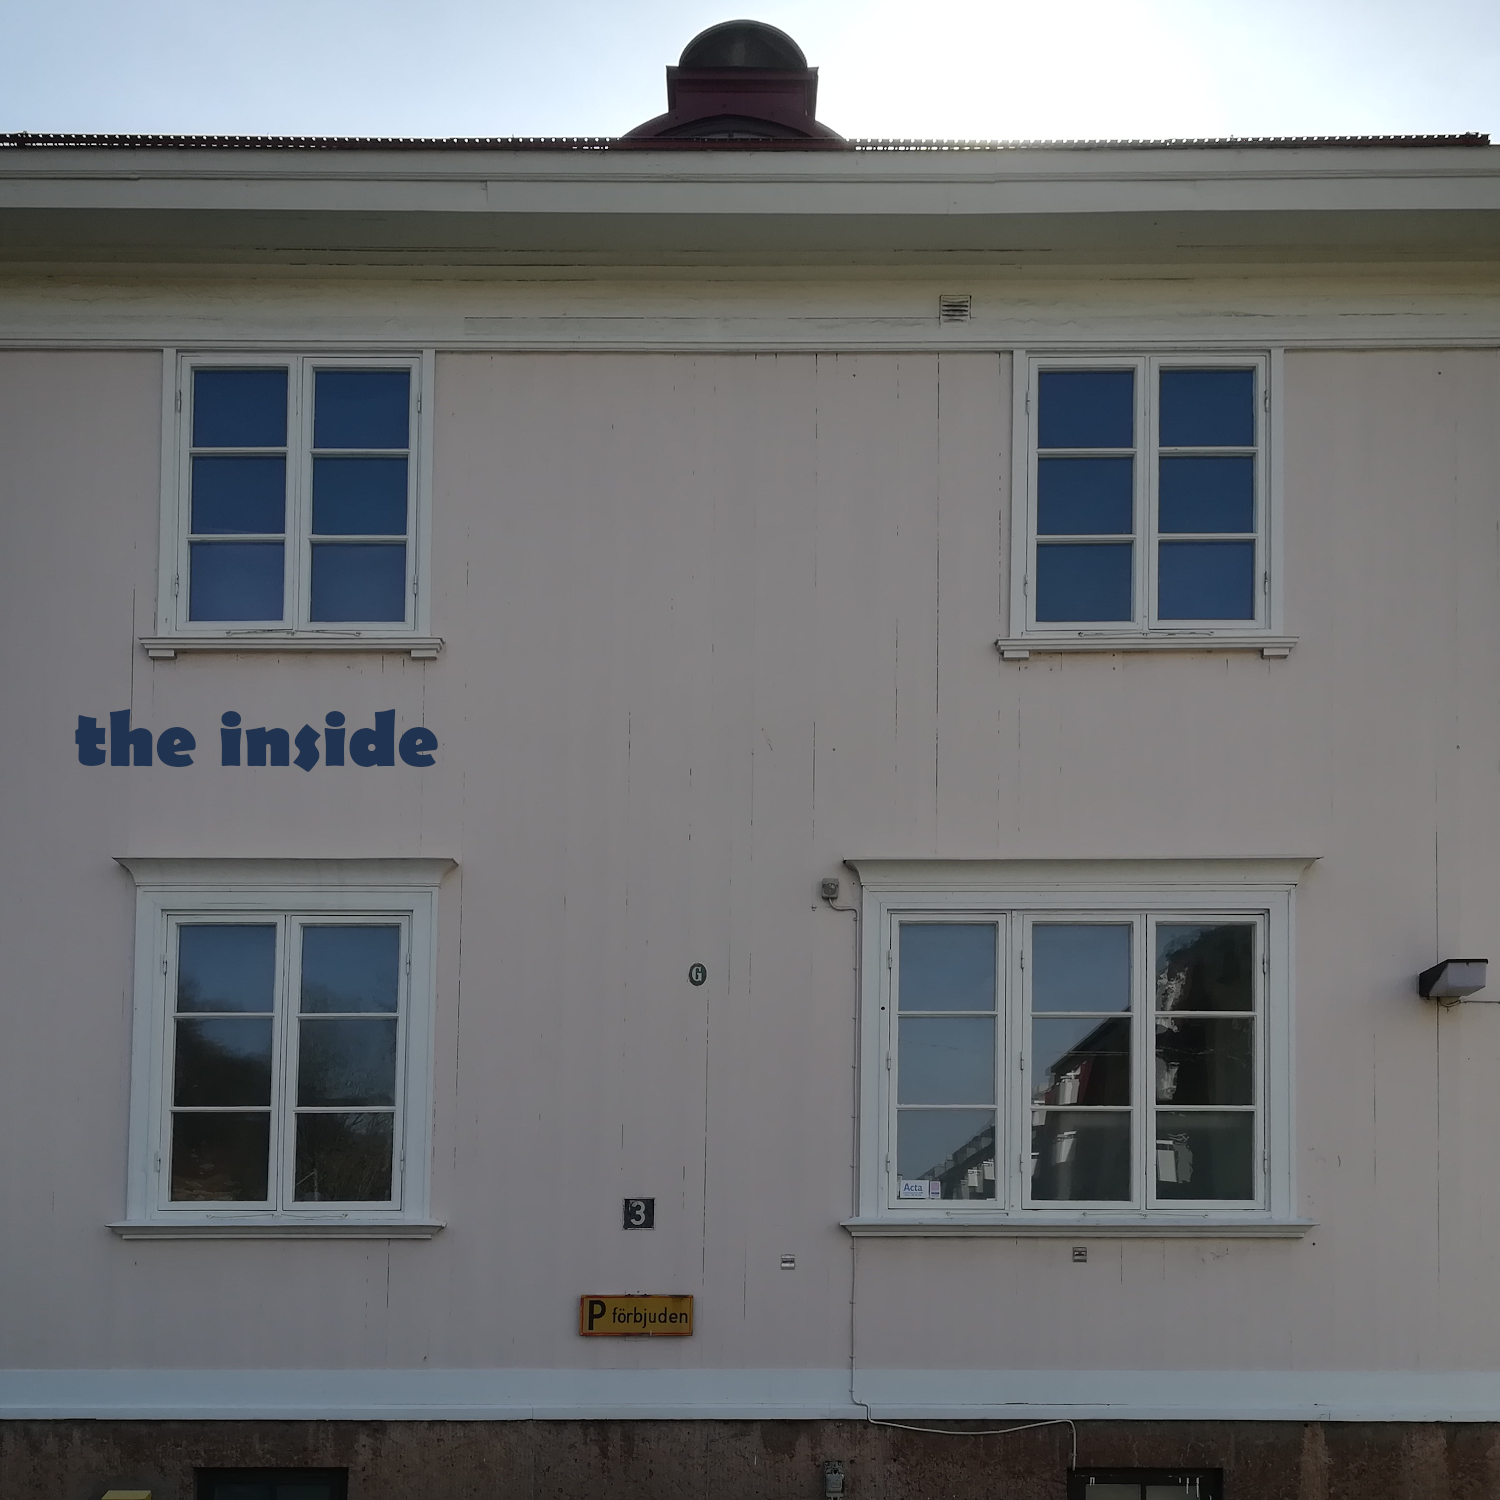
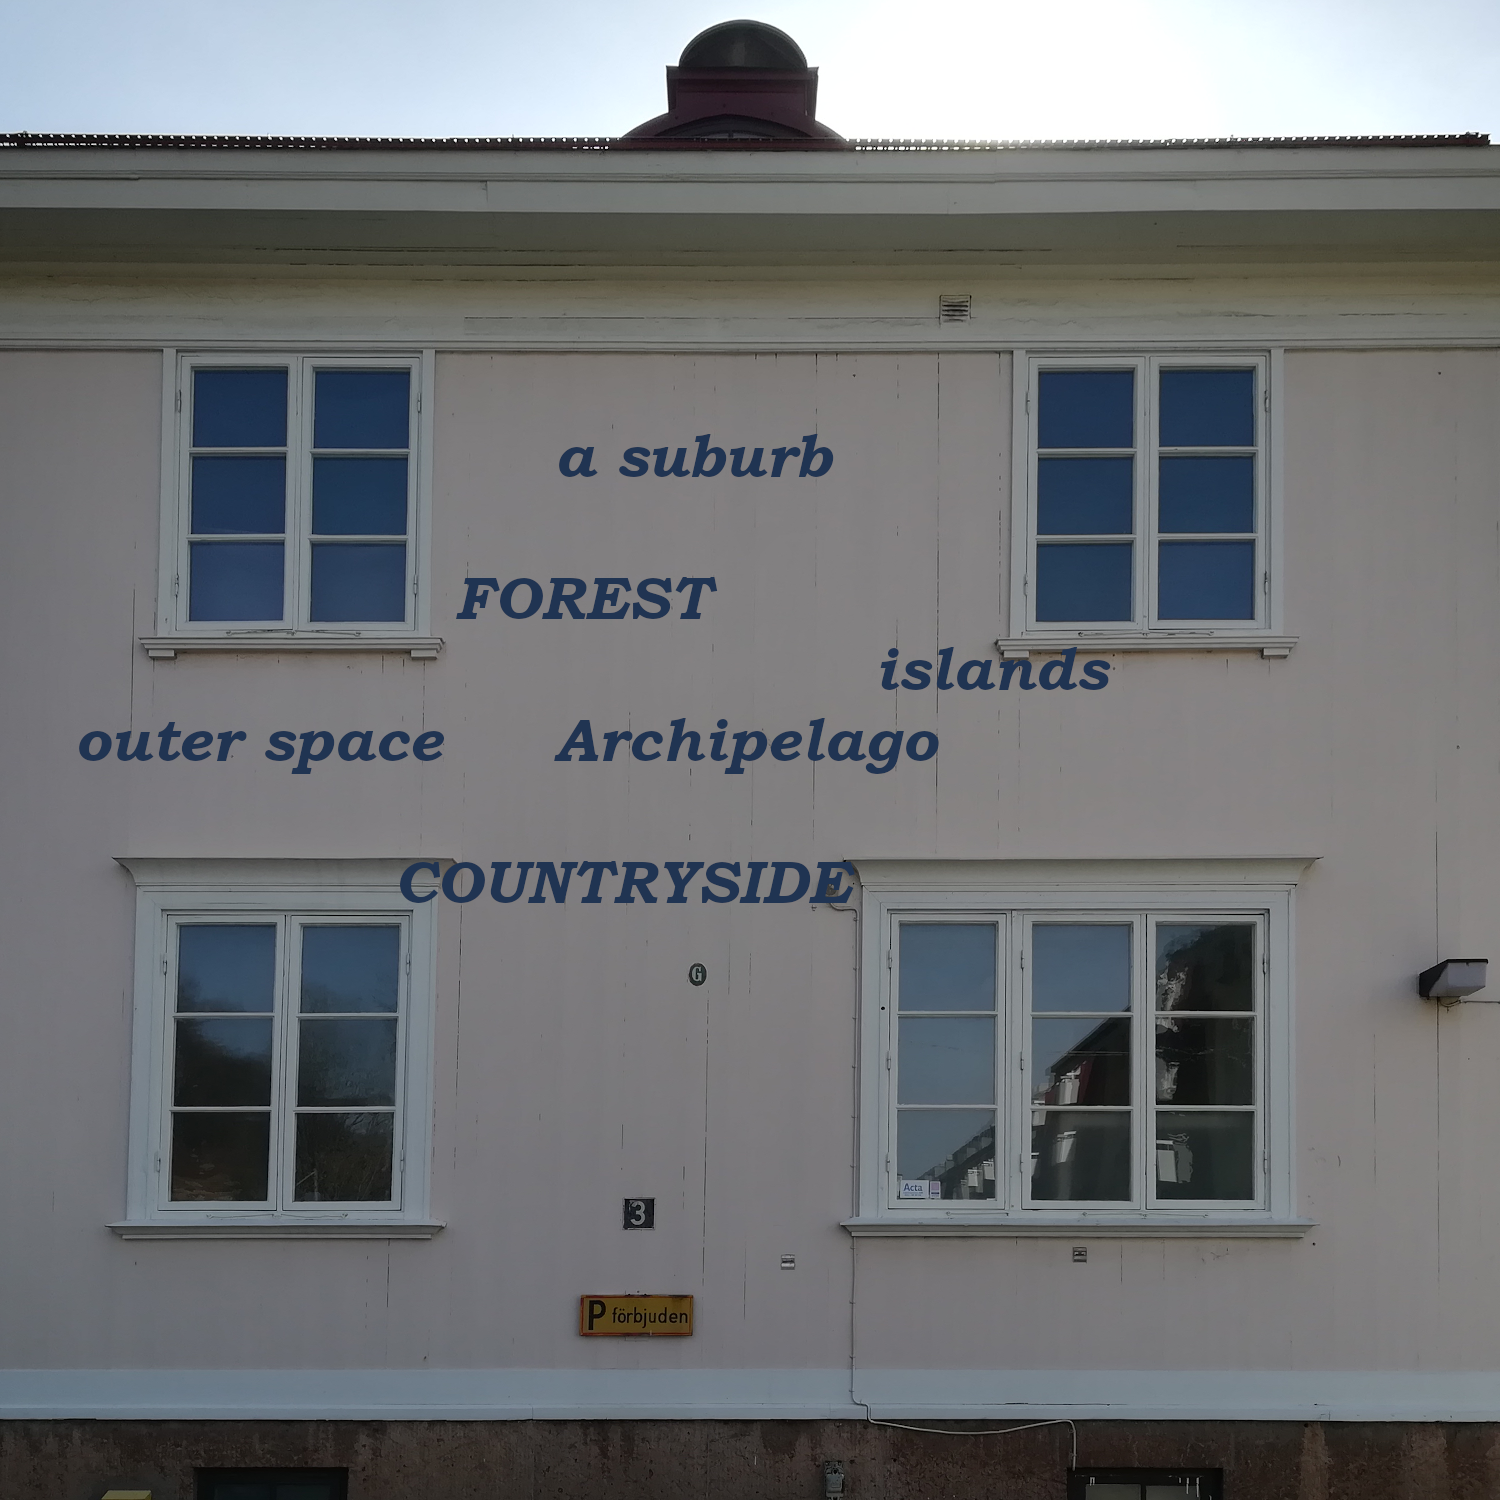
Add new text on images

diff --git a/src/client/index.html b/src/client/index.html
@@ -31,6 +31,22 @@
 
 <div class="a">
 
+<h3>
+Associations from audience based on two words:
+<br>
+<br>
+Who comes to your mind when you hear the word
+<br>
+<b>outsider</b>
+<br>
+<br>
+What place comes to your mind when you hear the word
+<br>
+<b>periphery</b>
+<br>
+<br>
+</h3>
+
 <p>This is a demo only for development purpose.
 <br>
 It is not indented to be shown for audiences.

diff --git a/src/client/app.js b/src/client/app.js
@@ -38,8 +38,8 @@ function init() {
 				'wall2.png',
 				'sky.png',
 				'ground.png',
-				'wall3.png',
-				'wall4.png'
+				'wall3-text.png',
+				'wall4-text.png'
 
 			],
 
